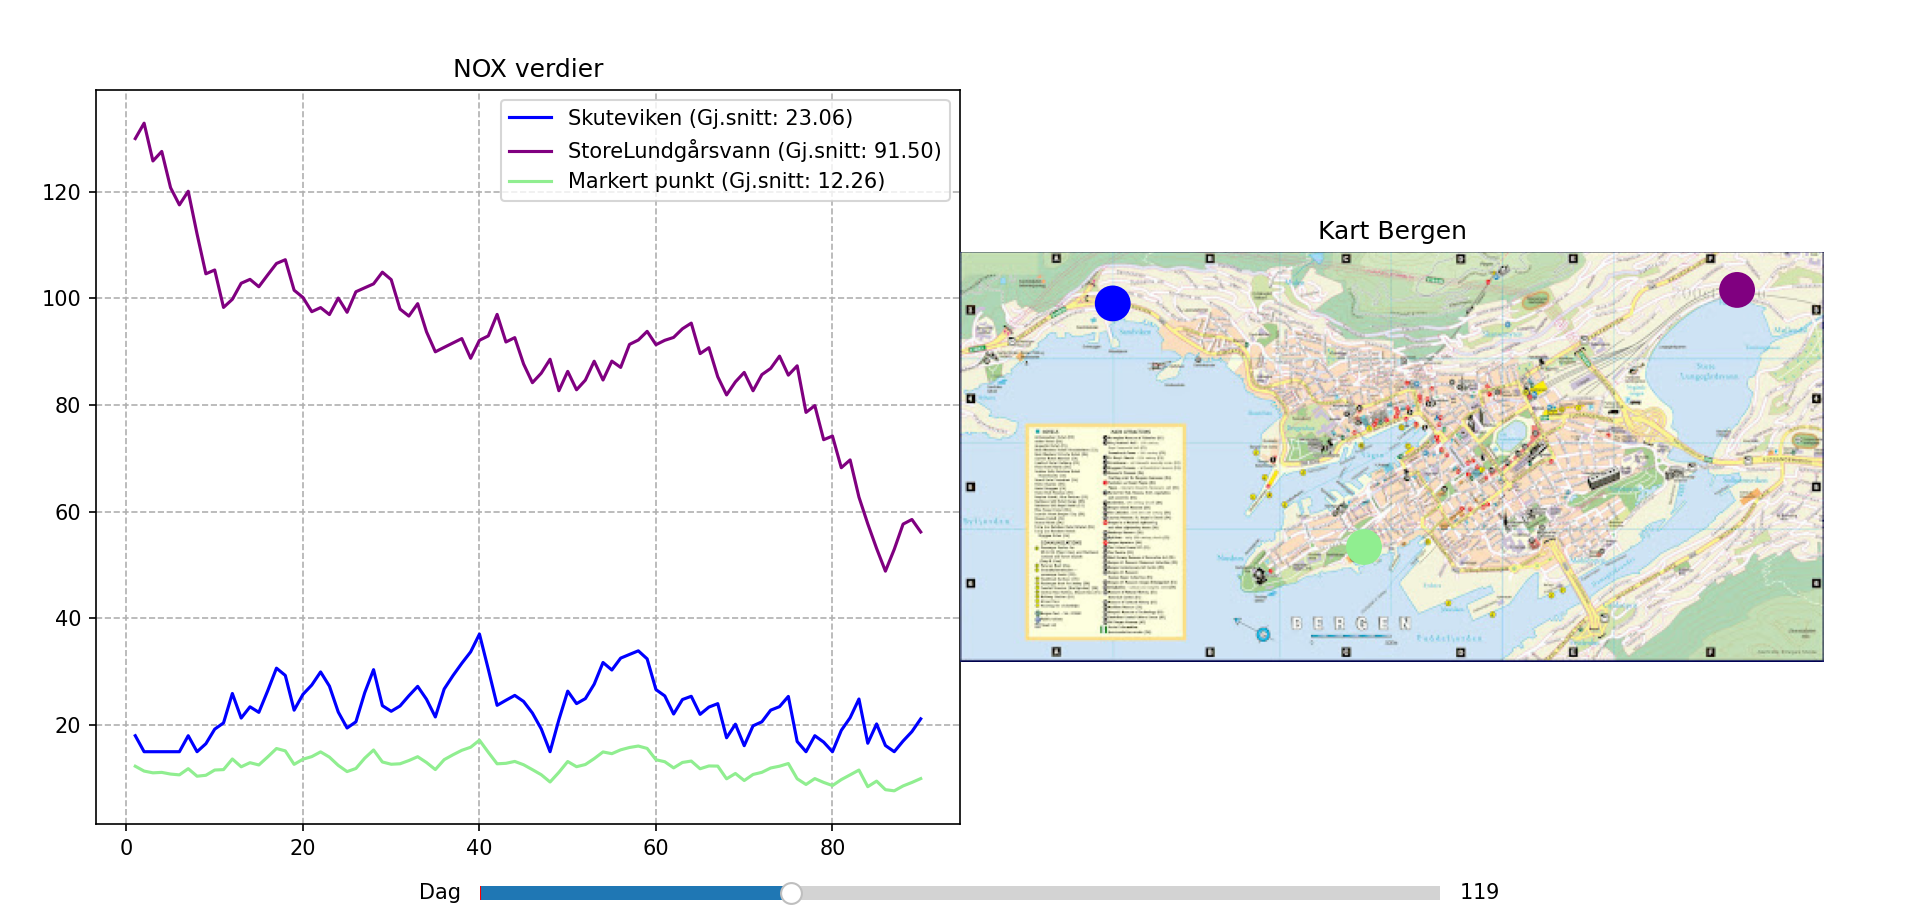
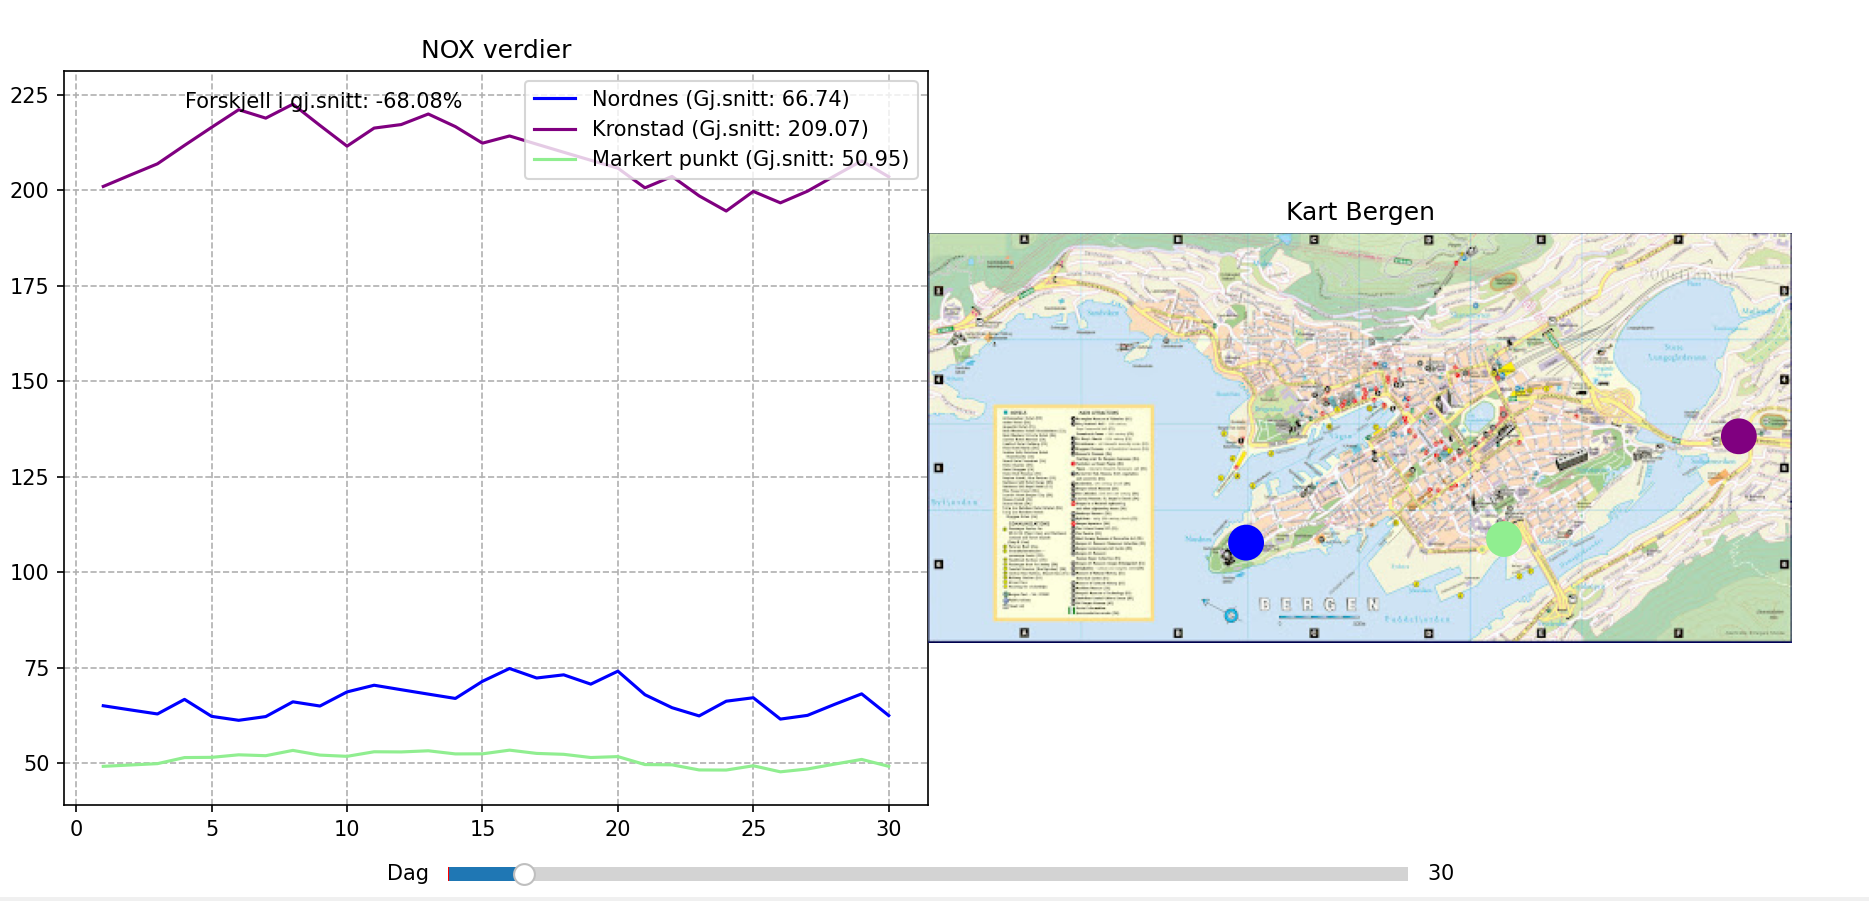
Python og skjermbilder

diff --git a/Python program/PythonSemester.py b/Python program/PythonSemester.py
@@ -1,96 +1,134 @@
 import math
 import numpy as np
 import matplotlib.pyplot as plt
-from matplotlib.widgets import RadioButtons
+from matplotlib.widgets import Slider
 import matplotlib.image as mpimg
 import matplotlib.patches as mpatches
-
-#Generater random data for a year
-# centervals are values average values for each month
-# samedata = false, new data each time program is called
 import random
 from random import randint
 
-from Del2 import kron_nox_year
-
-
-def GenereateRandomYearDataList(intencity:float, seed:int=0) -> list[int]:
-    """
-    :param intencity: Number specifying size, amplitude
-    :param seed: If given, same data with seed is generated
-    :return:
-    """
+# Generer tilfeldig data for et år
+def GenereateRandomYearDataList(intencity: float, seed: int = 0) -> list[int]:
     if seed != 0:
         random.seed(seed)
-    centervals = [200,150,100, 75,75,75, 50, 75, 100, 150, 200, 250, 300]
+    centervals = [200, 150, 100, 75, 75, 75, 50, 75, 100, 150, 200, 250, 300]
     centervals = [x * intencity for x in centervals]
     nox = centervals[0]
     inc = True
     noxList = []
-    for index in range(1,365):
+    for index in range(0, 365):
         if randint(1, 100) > 50:
             inc = not inc
         center = centervals[int(index / 30)]
-        dx = min(2.0, max(0.5, nox / center ))
-        nox =  nox + randint(1,5) / dx if inc else nox - randint( 1, 5) * dx
-        nox = max(10, nox)
+        dx = min(5, max(0.2, nox / center))
+        nox = nox + randint(1, 5) / dx if inc else nox - randint(1, 5) * dx
+        nox = max(15, nox)
         noxList.append(nox)
     return noxList
 
-kron_nox_year = GenereateRandomYearDataList(intencity=1.0, seed = 2)
-nord_nox_year = GenereateRandomYearDataList(intencity=.2, seed = 1)
+# Initialiser data og parametere
+days_per_quarter = 365
+kron_nox_year = GenereateRandomYearDataList(intencity=1.0, seed=2)
+nord_nox_year = GenereateRandomYearDataList(intencity=.3, seed=1)
+days_interval = (1, days_per_quarter)
+marked_point = (0, 0)
 
+# Sett scroll_start til 1
+scroll_start = 1
 
-#create figure and 3 axis
+# Lag figur og akser
 fig = plt.figure(figsize=(13, 5))
+axNok = fig.add_axes((0.05, 0.1, 0.45, 0.8))
+axBergen = fig.add_axes((0.5, 0.1, 0.45, 0.8))
 
-axNok = fig.add_axes((0.05, 0.05, 0.45, 0.9))
+coordinates_Nordnes = (188, 183)
+coordinates_Kronstad = (480, 120)
 
-quarterYear =  int(input("Kvartal 1-4  (0=Hele Året)  : "))
+# Beregn gjennomsnittsverdi
+def calculate_average(data):
+    return sum(data) / len(data) if data else 0
 
-def get_interval():
-    num_labels = 12
-    xlabels = ['J' ,'F' ,'M' ,'A' ,'M' ,'J', 'J', 'A', 'S', 'O', 'N', 'D']
-    xticks = np.linspace(15, 345, num_labels)
-    days_interval = (1, 365)
-    if quarterYear == 1:
-        xticks = [15,45,75]
-        xlabels = ['Jan', 'Feb', 'Mars']
-        days_interval = (0,90)
-    if quarterYear == 2:
-        xticks = [15,45,75]
-        xlabels = ['April', 'Mai', 'Juni']
-        days_interval = (90, 180)
-    if quarterYear == 3:
-        xticks = [15, 45, 75]
-        xlabels = ['July', 'Aug', 'Sept']
-        days_interval = (180, 270)
-    if quarterYear == 4:
-        xticks = [15, 45, 75]
-        xlabels = ['Okt', 'Nov', 'Des']
-        days_interval = (270, 360)
-    axNok.set_xticks(xticks)
-    axNok.set_xticklabels(xlabels)
-    return days_interval
+# Kalkuler NOX-verdi basert på to målestasjoner
+def CalcPointValue(valN, valK):
+    distNordnes = math.dist(coordinates_Nordnes, marked_point)
+    distKronstad = math.dist(coordinates_Kronstad, marked_point)
+    distNordnesKronstad = math.dist(coordinates_Nordnes, coordinates_Kronstad)
+    val = (1 - distKronstad / (distKronstad + distNordnes)) * valK + \
+          (1 - distNordnes / (distKronstad + distNordnes)) * valN
+    val = val * (distNordnesKronstad / (distNordnes + distKronstad)) ** 50
+    return val
 
+# Tegner kartet med sirkler på stasjonene
+def draw_circles_stations():
+    circle = mpatches.Circle((188, 183), 10, color='blue')
+    axBergen.add_patch(circle)
+    circle = mpatches.Circle((480, 120), 10, color='purple')
+    axBergen.add_patch(circle)
+
+# Oppdater grafen med data
 def plot_graph():
-
-    days_interval = get_interval()
-    nord_nox = nord_nox_year[days_interval[0]:days_interval[1]]
-    kron_nox = krnon_nox_year[days_interval[0]:days_interval[1]]
+    axNok.cla()
+    axBergen.cla()
+    nord_nox = nord_nox_year[days_interval[0]-1:days_interval[1]]
+    kron_nox = kron_nox_year[days_interval[0]-1:days_interval[1]]
     days = len(nord_nox)
     list_days = np.linspace(1, days, days)
 
-    l1, = axNok.plot(list_days, nord_nox, 'blue')
-    l2, = axNok.plot(list_days, kron_nox, 'red')
+    # Beregn gjennomsnitt
+    nord_nox_avg = calculate_average(nord_nox)
+    kron_nox_avg = calculate_average(kron_nox)
+    forskjell = (nord_nox_avg - kron_nox_avg) / kron_nox_avg * 100 if kron_nox_avg != 0 else 0  # Prosentforskjell
+
+    # Tegn grafene og legg til gjennomsnittsverdiene i legend
+    l1, = axNok.plot(list_days, nord_nox, 'blue', label=f"Nordnes (Gj.snitt: {nord_nox_avg:.2f})")
+    l2, = axNok.plot(list_days, kron_nox, 'purple', label=f"Kronstad (Gj.snitt: {kron_nox_avg:.2f})")
+
+    # Legg til label for forskjellen i prosent
+    l4 = axNok.text(0.3, 0.95, f"Forskjell i gj.snitt: {forskjell:.2f}%", ha='center', transform=axNok.transAxes)
+
+    # Marker punkt om det finnes
+    l3 = None
+    if marked_point != (0, 0):
+        nox_point = [CalcPointValue(nord_nox[i], kron_nox[i]) for i in range(days)]
+        nox_point_avg = calculate_average(nox_point)
+        l3, = axNok.plot(list_days, nox_point, 'lightgreen', label=f"Markert punkt (Gj.snitt: {nox_point_avg:.2f})")
+        circle = mpatches.Circle((marked_point[0], marked_point[1]), 10, color='lightgreen')
+        axBergen.add_patch(circle)
+
+    lines = [l1, l2] if l3 is None else [l1, l2, l3]
+    axNok.legend(handles=lines, loc="upper right")
+
     axNok.set_title("NOX verdier")
-
-    lines = [l1, l2]
-    axNok.legend(lines, ["Skuteviken", "Storelundgårdsvann"])
     axNok.grid(linestyle='--')
-
+    axBergen.axis('off')
+    img = mpimg.imread('NyBergen.jpg')
+    axBergen.imshow(img)
+    axBergen.set_title("Kart Bergen")
+    draw_circles_stations()
     plt.draw()
+
+# Oppdater days_interval basert på scrollbar
+def update_scroll(val):
+    global days_interval
+    start_day = 1  # Alltid start på dag 1
+    end_day = int(scroll.val)  # Bruk slideren til å bestemme sluttdagen
+    days_interval = (start_day, end_day)  # Oppdater intervallet
+    plot_graph()
+
+# Initialiser scrollbar med korrekt øvre grense
+axScroll = fig.add_axes([0.25, 0.01, 0.5, 0.03], facecolor="lightgrey")
+scroll = Slider(axScroll, "Dag", 1, 365, valinit=scroll_start, valstep=1)
+scroll.on_changed(update_scroll)
+
+# Håndter klikk på kartet
+def on_click(event):
+    global marked_point
+    if ax := event.inaxes:
+        if ax == axBergen:
+            marked_point = (event.xdata, event.ydata)
+            plot_graph()
+
+plt.connect('button_press_event', on_click)
 
 plot_graph()
 plt.show()
-
